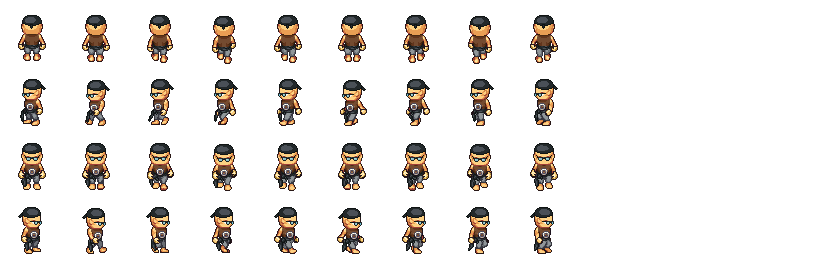
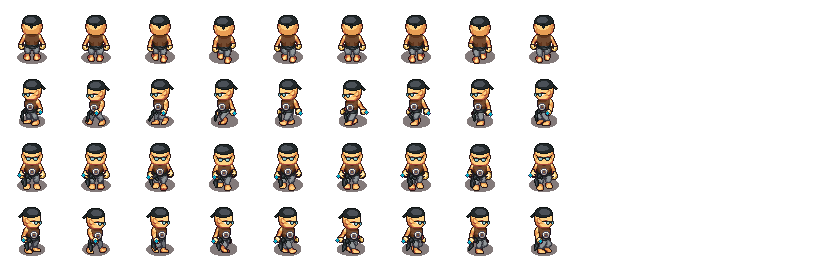
Removed shadow overlay. Now directly on asset sheet.

diff --git a/core/src/de/tum/cit/fop/maze/objects/Dynamic/Enemy/Enemy.java b/core/src/de/tum/cit/fop/maze/objects/Dynamic/Enemy/Enemy.java
@@ -15,7 +15,6 @@ import com.badlogic.gdx.graphics.g2d.TextureRegion;
 
 public abstract class Enemy extends GameObject implements Enemies {
     protected boolean isDead = false;
-    private static TextureRegion shadowTexture;
     private float deathTime = 0f; // fade
     private static final float detectionRange = 5.5f; // if within 5.5 tiles
     private static final float fadeDuration = 1.0f;
@@ -109,33 +108,27 @@ public abstract class Enemy extends GameObject implements Enemies {
     }
 
     public void animate(Batch batch) {
-        if (shadowTexture != null) {
-            float shadowWidth = spriteSizes.x * 1.5f;
-            batch.draw(shadowTexture, position.x + (spriteSizes.x - shadowWidth) / 2f, position.y - 0.05f, shadowWidth, shadowWidth);
-            if (isDead) {
-                // Move and Transparent on each kill
-                float alpha = 1.0f - (deathTime / fadeDuration);
-                if (alpha < 0) {
-                    alpha = 0;
-                }
-                float floatOffset = (deathTime / fadeDuration) * 0.5f;
-                float oldAlpha = batch.getColor().a;
-                //transparent
-                batch.setColor(1f, 1f, 1f, alpha);
-                // offset
-                float originalY = position.y;
-                position.y += floatOffset;
-                super.animate(batch);
-                position.y = originalY;
-                // back to normal
-                batch.setColor(1f, 1f, 1f, oldAlpha);
-            } else {
-                super.animate(batch);}
-    }}
-
-    public static void setShadowTexture(TextureRegion texture) {
-        shadowTexture = texture;
+        if (isDead) {
+            // Move and Transparent on each kill
+            float alpha = 1.0f - (deathTime / fadeDuration);
+            if (alpha < 0) {
+                alpha = 0;
+            }
+            float floatOffset = (deathTime / fadeDuration) * 0.5f;
+            float oldAlpha = batch.getColor().a;
+            //transparent
+            batch.setColor(1f, 1f, 1f, alpha);
+            // offset
+            float originalY = position.y;
+            position.y += floatOffset;
+            super.animate(batch);
+            position.y = originalY;
+            // back to normal
+            batch.setColor(1f, 1f, 1f, oldAlpha);
+        } else {
+            super.animate(batch);}
     }
+
 
     public boolean isDead() {
         return isDead;

diff --git a/core/src/de/tum/cit/fop/maze/MazeRunnerGame.java b/core/src/de/tum/cit/fop/maze/MazeRunnerGame.java
@@ -137,7 +137,6 @@ public class MazeRunnerGame extends Game {
     // Dawn Animations
     private Animation<TextureRegion> dawnThinAnimation;
     private Animation<TextureRegion> dawnWideAnimation;
-    private TextureRegion shadowTexture;
 	private GameMode gameMode;
 
 	public static final String[] STORY_LEVELS = {
@@ -175,7 +174,6 @@ public class MazeRunnerGame extends Game {
         this.gameInfo.initializeAchievements();
 
         spriteBatch = new SpriteBatch(); // Create SpriteBatch
-        this.Shadow();
 
         spriteSheet = new Texture(Gdx.files.internal("UI.png"));
         assetsSheet = new Texture(Gdx.files.internal("Game_Assets+.png"));
@@ -269,13 +267,6 @@ public class MazeRunnerGame extends Game {
 //		return enemyTexture;
 //	}
 
-
-    public void Shadow(){
-        Texture shadowSheet = new Texture(Gdx.files.internal("lpc_shadow.png"));
-        TextureRegion[][] tmp = TextureRegion.split(shadowSheet, 64, 64);
-        TextureRegion genericShadow = tmp[10][0];
-        Enemy.setShadowTexture(genericShadow);
-    }
 
     public void disposeAllScreens() {
         List<Screen> allScreens = Arrays.asList(this.gameScreen, this.backgroundStoryScreen, this.menuScreen, this.gameLostScreen);
